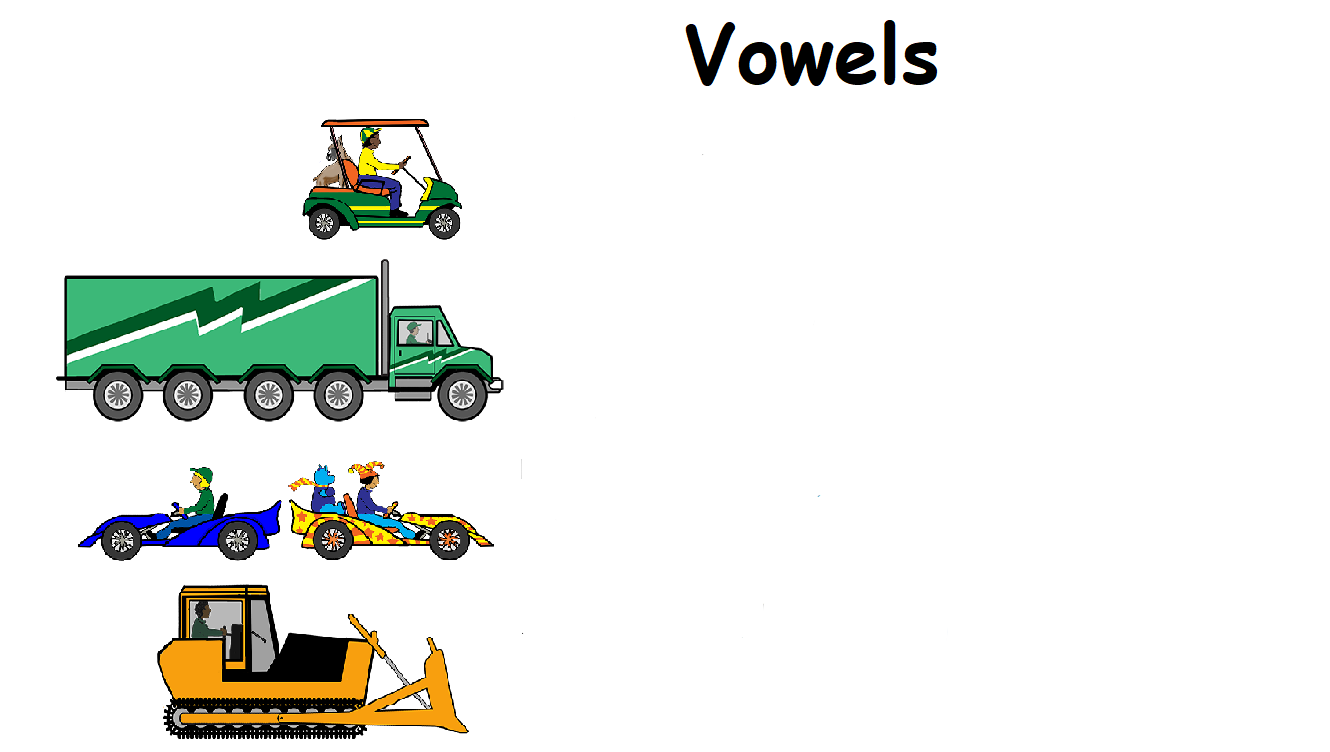
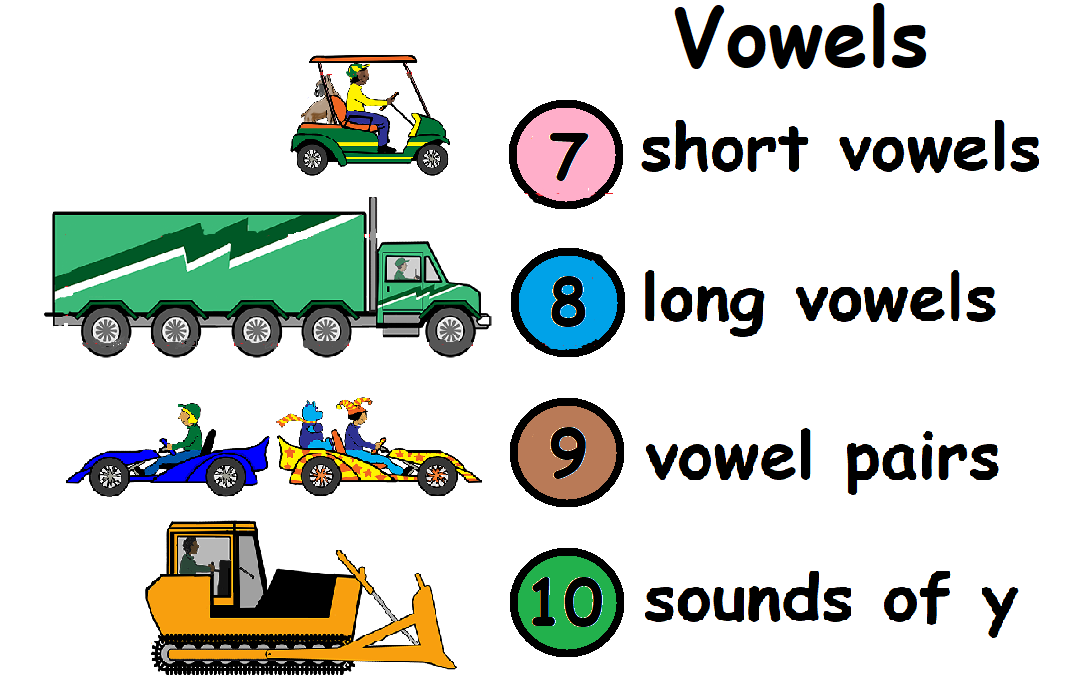
update (menu) -first vowels

Changed region(s): [[0.031, 0.06, 0.9597, 0.99], [0.4644, 0.0, 0.9906, 0.3], [0.4644, 0.78, 0.9597, 0.96]]

diff --git a/src/app/pages/first-categories/first-vowels-details/first-vowels-details.component.css b/src/app/pages/first-categories/first-vowels-details/first-vowels-details.component.css
@@ -1,7 +1,7 @@
 #main-body {
     width: 169.7vh;
     height: 0vh;
-    padding-left: 40vh;
+    padding-left: 23vh;
     position: relative;
   }
   
@@ -9,42 +9,30 @@
       background-color: #FFFFFF !important;
       background: url('../../../../assets/img/backgrounds/first_vowels.png') no-repeat scroll transparent;
       background-position: 14vh;
-      background-size: 165vh;
+      background-size: auto 100vh;
   }
   
   /* First Categories */
   #short_vowels {
-      background: url('../../../../assets/img/buttons/first_vowels_short.png') no-repeat scroll transparent;
-      background-position: center;
-      background-size: 70vh;
-      cursor: pointer;
-      width: 70vh;
+      width: 110vh;
       height: 15vh;
       margin-top: 4vh;
+      margin: 0 0 0 31vh;
   }
   #long_vowels {
-    background: url('../../../../assets/img/buttons/first_vowels_long.png') no-repeat scroll transparent;
-    background-position: center;
-    background-size: 65vh;
-    cursor: pointer;
-    width: 65vh;
-    height: 15vh;
+    margin: 2vh 0 0 0;
+    width: 135vh;
+    height: 24vh;
   }
   #vowel_pairs {
-    background: url('../../../../assets/img/buttons/first_vowels_pairs.png') no-repeat scroll transparent;
-    background-position: center;
-    background-size: 66vh;
-    cursor: pointer;
-    width: 66vh;
-    height: 15vh;
+    margin: 2vh 0 0 0;
+    width: 135vh;
+    height: 24vh;
   }
   #y_sounds {
-    background: url('../../../../assets/img/buttons/first_vowels_y_sounds.png') no-repeat scroll transparent;
-    background-position: center;
-    background-size: 69vh;
-    cursor: pointer;
-    width: 69vh;
-    height: 15vh;
+    margin: 0 0 0 10vh;
+    width: 127vh;
+    height: 24vh;
   }
 
   .column {
@@ -55,4 +43,6 @@
       margin: 6vh 0vh 0vh 41vh;
       border: none;
       display: inherit;
+      cursor: pointer;
+      background-color: transparent;
   }

diff --git a/src/app/pages/second-categories/second-vowels-details/second-vowels-details.component.css b/src/app/pages/second-categories/second-vowels-details/second-vowels-details.component.css
@@ -54,7 +54,6 @@
     border: none;
     display: block;
     background-color: transparent;
-    border: solid 2px red;
 }
 
 .column {
